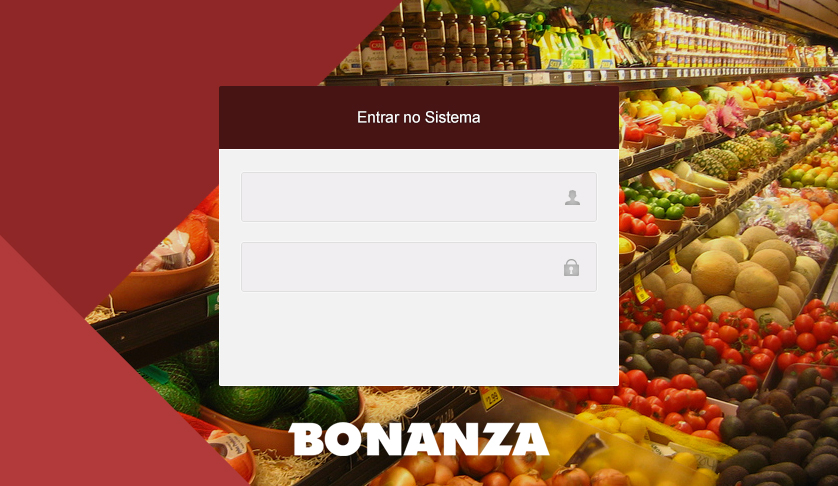
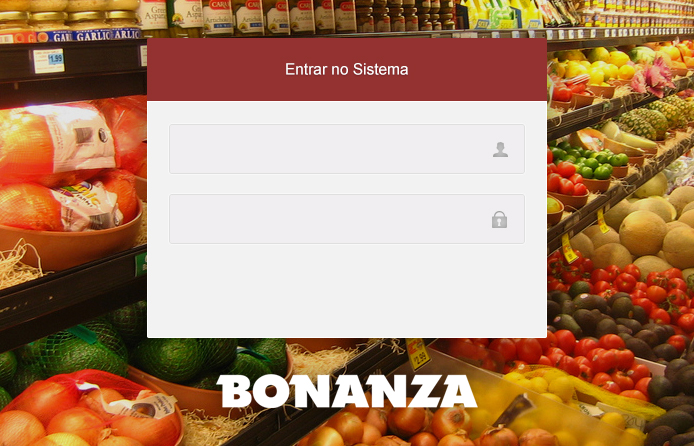
Novo envio !

diff --git a/src/view/Login.java b/src/view/Login.java
@@ -14,6 +14,8 @@ import javax.swing.border.LineBorder;
 import javax.swing.JLabel;
 import javax.swing.ImageIcon;
 
+import java.awt.event.KeyAdapter;
+import java.awt.event.KeyEvent;
 import java.awt.event.MouseAdapter;
 import java.awt.event.MouseEvent;
 
@@ -52,87 +54,120 @@ public class Login extends JFrame {
 	}
 
 	public Login() {
-		
+
 		setResizable(false);
 		setTitle("BONANZA SUPERMECADOS - LOGIN");
 		setDefaultCloseOperation(JFrame.EXIT_ON_CLOSE);
-		setBounds(100, 100, 841, 491);
+		setBounds(100, 100, 698, 472);
 		setLocationRelativeTo(null);
 		getContentPane().setLayout(new BorderLayout());
-		
-		
+
 		contentPane = new JPanel();
 		contentPane.setBorder(new EmptyBorder(5, 5, 5, 5));
 		setContentPane(contentPane);
 		contentPane.setLayout(null);
-		
+
 		JLabel botaoPrincipal = new JLabel("");
 		botaoPrincipal.addMouseListener(new MouseAdapter() {
-			
+
 			@Override
 			public void mouseEntered(MouseEvent arg0) {
-				
-				botaoPrincipal.setIcon(new ImageIcon(Login.class.getResource("/view/img/botao_login_mouse.png")));
-				
+
+				botaoPrincipal.setIcon(new ImageIcon(Login.class
+						.getResource("/view/img/botao_login_mouse.png")));
+
 			}
-			
+
 			@Override
 			public void mouseExited(MouseEvent e) {
-				
-				botaoPrincipal.setIcon(new ImageIcon(Login.class.getResource("/view/img/botao_login.png")));
-				
+
+				botaoPrincipal.setIcon(new ImageIcon(Login.class
+						.getResource("/view/img/botao_login.png")));
+
 			}
-			
+
 		});
-		
-		JLabel botaoFecharError = new JLabel("");
-		botaoFecharError.addMouseListener(new MouseAdapter() {
-			@Override
-			public void mouseEntered(MouseEvent e) {
-				botaoFecharError.setIcon(new ImageIcon(Login.class.getResource("/view/img/close_msg_login_mouse.jpg")));
-			}
-			@Override
-			public void mouseExited(MouseEvent e) {
-				botaoFecharError.setIcon(new ImageIcon(Login.class.getResource("/view/img/close_msg_login.jpg")));
-			}
-		});
-		
+
 		campoLogin = new JTextField();
-		campoLogin.setBounds(253, 168, 293, 34);
+		campoLogin.setBounds(185, 131, 293, 34);
 		campoLogin.setFont(new Font("Tahoma", Font.PLAIN, 15));
-		campoLogin.setBackground(Color.WHITE);
-		campoLogin.setBorder(new LineBorder(Color.WHITE));
+		campoLogin.setBackground(new Color(240, 238, 240));
+		campoLogin.setBorder(new LineBorder(new Color(240, 238, 240)));
 		campoLogin.setText("Digite seu Login");
 		campoLogin.setHorizontalAlignment(SwingConstants.LEFT);
 		contentPane.add(campoLogin);
 		campoLogin.setColumns(10);
-		
+
+		campoLogin.addKeyListener(new KeyAdapter() {
+			@Override
+			public void keyPressed(KeyEvent arg0) {
+
+				if (campoLogin.getText().equals("Digite seu Login")) {
+
+					if (arg0.getKeyCode() == KeyEvent.VK_ESCAPE) {
+
+					}
+
+					else {
+
+						campoLogin.setText("");
+
+					}
+
+				}
+
+				if (campoLogin.getText().equals("Digite seu Login")
+						& arg0.getKeyCode() == KeyEvent.VK_ENTER) {
+
+				}
+
+				else if (arg0.getKeyCode() == KeyEvent.VK_ENTER) {
+
+				}
+
+				else if (arg0.getKeyCode() == KeyEvent.VK_DOWN) {
+
+					campoSenha.requestFocus();
+
+				}
+
+			}
+
+		});
+
 		campoSenha = new JPasswordField();
 		campoSenha.setColumns(10);
-		campoSenha.setBounds(253, 238, 293, 34);
+		campoSenha.setBounds(185, 202, 293, 34);
 		campoSenha.setFont(new Font("Tahoma", Font.PLAIN, 15));
-		campoSenha.setBackground(Color.WHITE);
-		campoSenha.setBorder(new LineBorder(Color.WHITE));
+		campoSenha.setBackground(new Color(240, 238, 240));
+		campoSenha.setBorder(new LineBorder(new Color(240, 238, 240)));
 		campoSenha.setText("Senha");
 		campoSenha.setHorizontalAlignment(SwingConstants.LEFT);
+
 		contentPane.add(campoSenha);
+
+		botaoPrincipal.setIcon(new ImageIcon(Login.class
+				.getResource("/view/img/botao_login.png")));
 		
-		botaoFecharError.setIcon(new ImageIcon(Login.class.getResource("/view/img/close_msg_login.jpg")));
-		botaoFecharError.setBounds(572, 15, 47, 46);
-		contentPane.add(botaoFecharError);
-		
-		JLabel fundoMensagemError = new JLabel("");
-		fundoMensagemError.setIcon(new ImageIcon(Login.class.getResource("/view/img/fundo_erro_login.jpg")));
-		fundoMensagemError.setBounds(219, 15, 356, 46);
-		contentPane.add(fundoMensagemError);
-		botaoPrincipal.setIcon(new ImageIcon(Login.class.getResource("/view/img/botao_login.png")));
-		botaoPrincipal.setBounds(241, 300, 356, 50);
+		botaoPrincipal.setBounds(169, 270, 356, 44);
+
 		contentPane.add(botaoPrincipal);
-		
+
 		JLabel fundoPrincipal = new JLabel("");
-		fundoPrincipal.setIcon(new ImageIcon(Login.class.getResource("/view/img/fundo_login.jpg")));
-		fundoPrincipal.setBounds(0, 0, 835, 463);
+		
+		fundoPrincipal.setIcon(new ImageIcon(Login.class
+				.getResource("/view/img/fundo_login.jpg")));
+		
+		fundoPrincipal.setBounds(0, 0, 694, 446);
+
 		contentPane.add(fundoPrincipal);
 
 	}
+	
+	public void validarLogin() {
+		
+		
+		
+	}
+
 }
